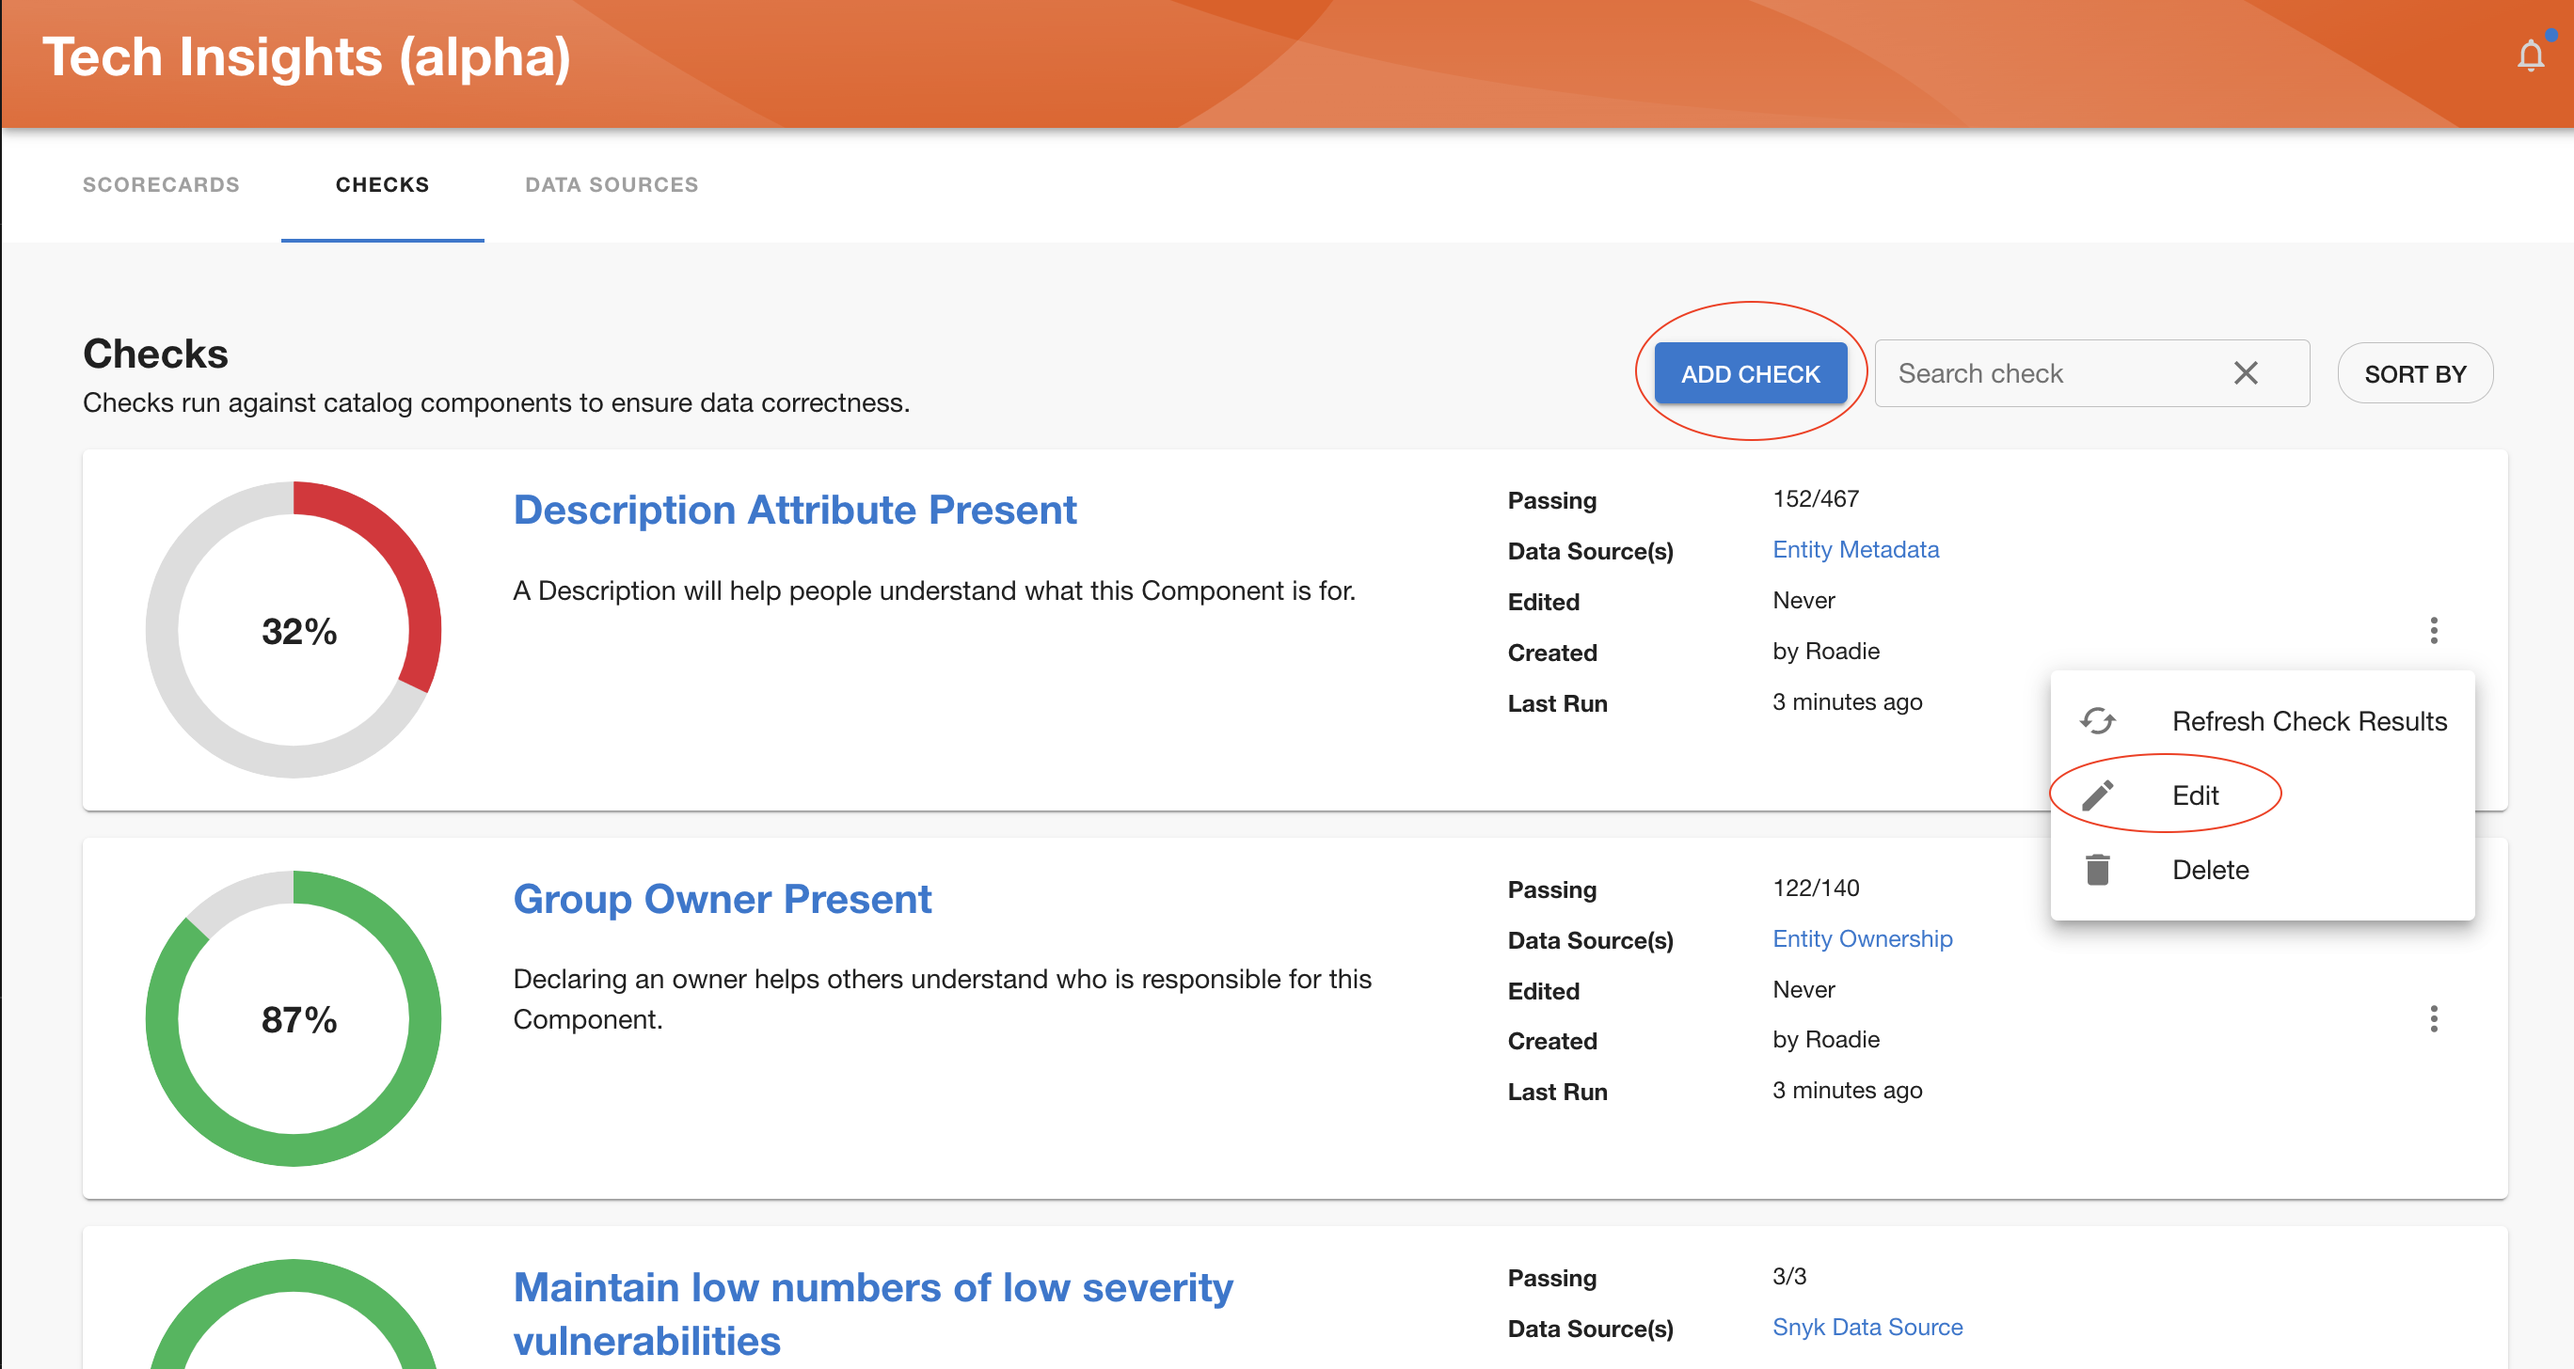
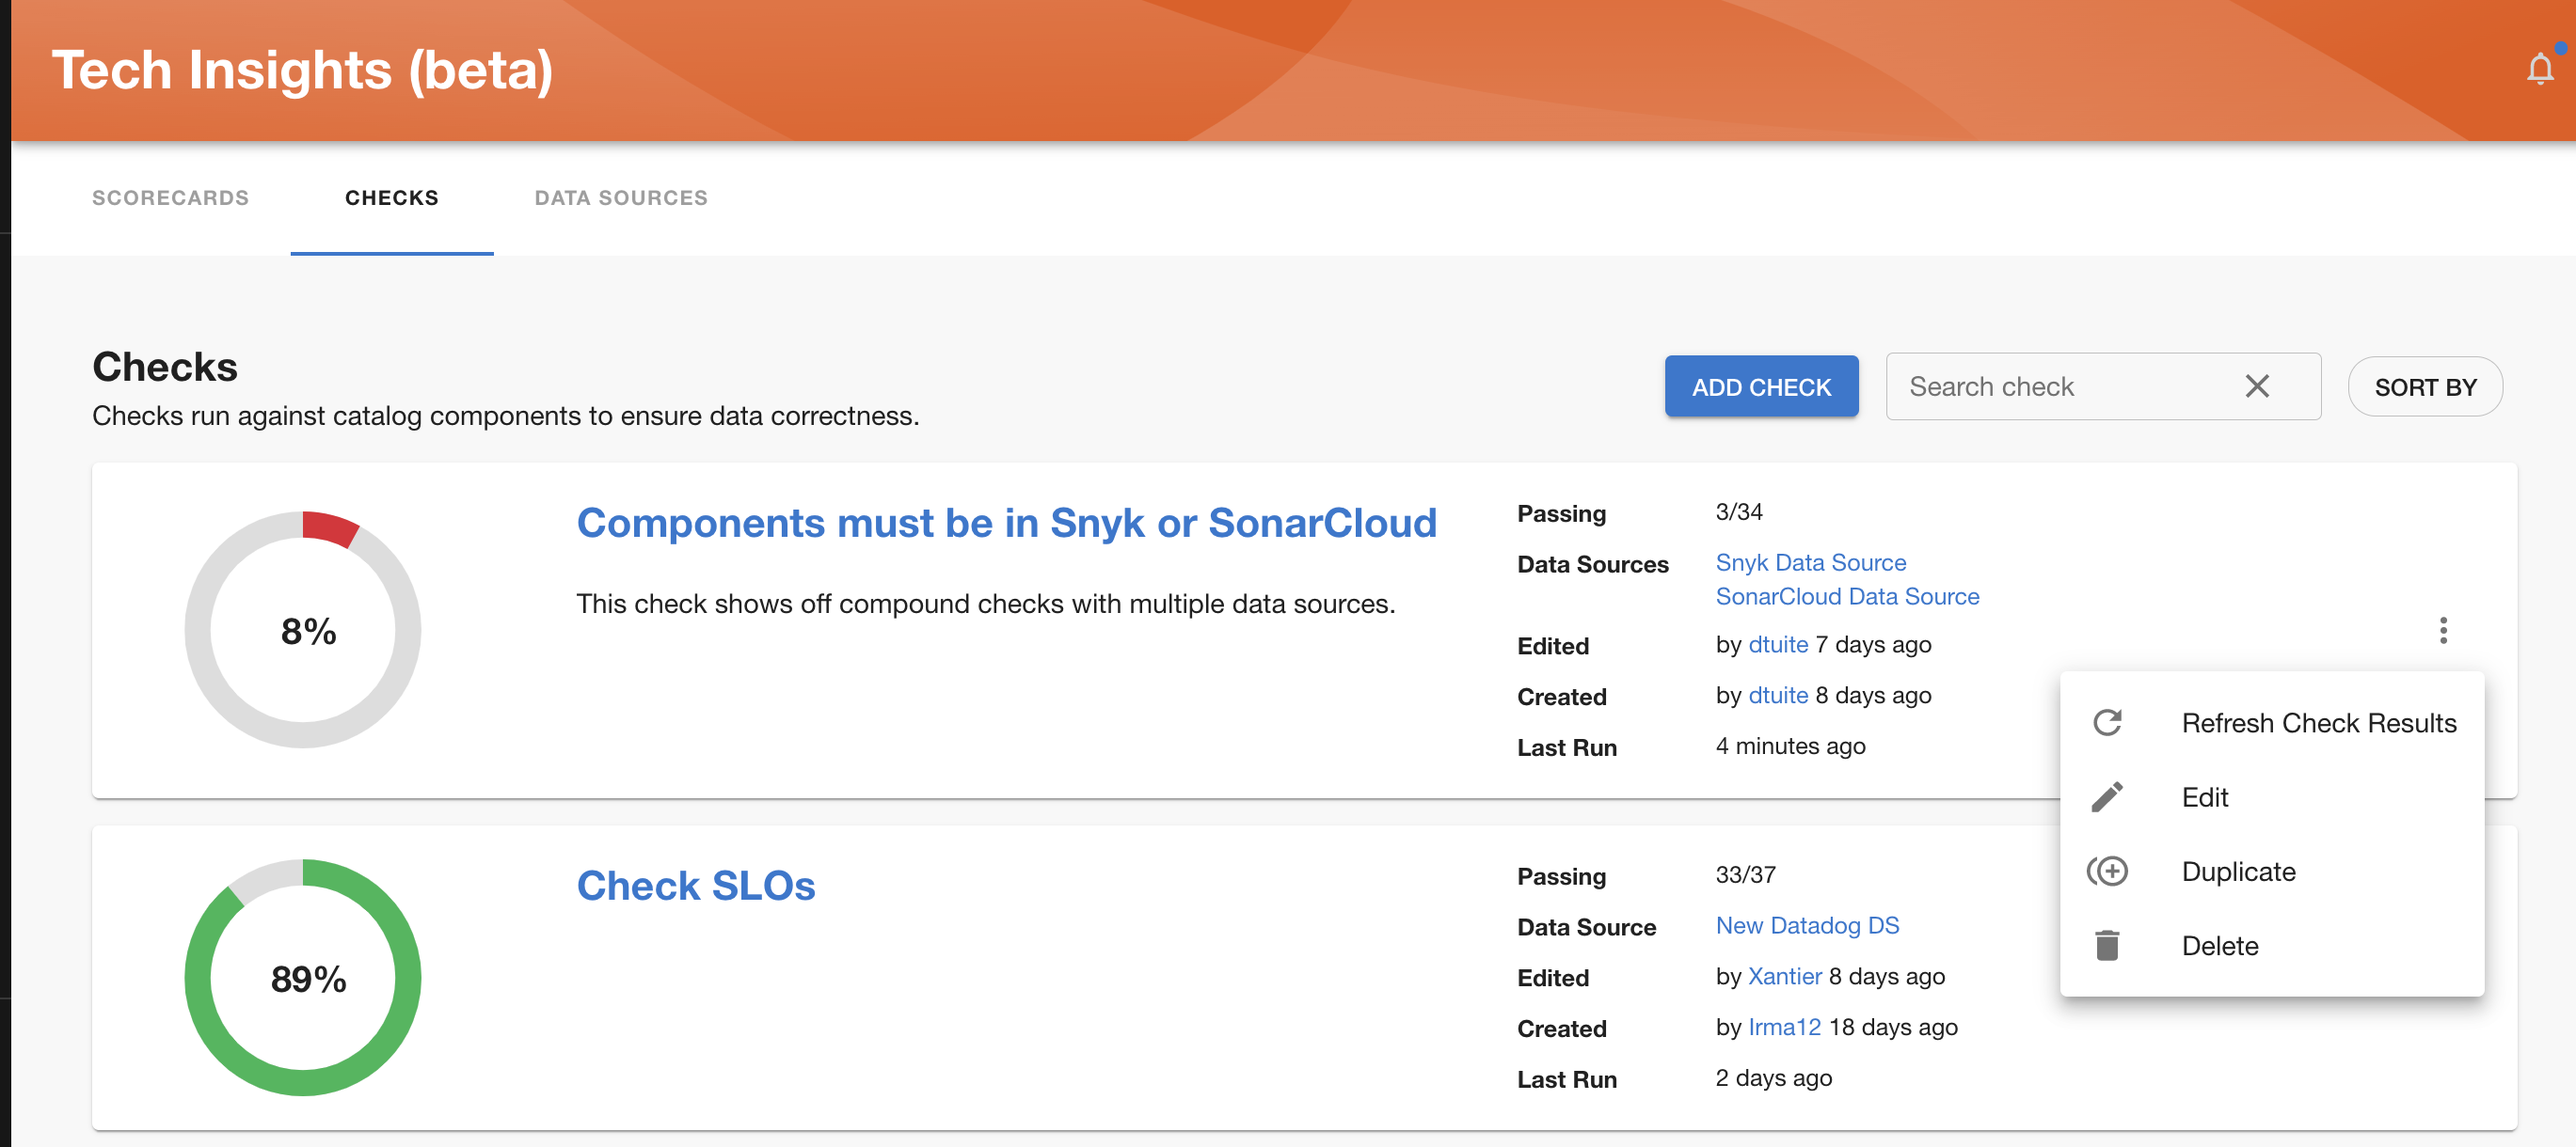
Update checks

diff --git a/content/docs/tech-insights/checks/index.md b/content/docs/tech-insights/checks/index.md
@@ -8,13 +8,13 @@ description: Managing Checks.
 
 A Check is a rule which a service either does or does not satisfy. Checks are defined by evaluating a Fact from a Data Source against a logical operation, such as checking if services have less than 4 Low Severity Issues from Snyk.
 
-To manage Checks, go to Tech Insights → Checks page. In this page you can view and edit existing Checks, as well as adding new Checks.
+To manage Checks, go to Tech Insights → Checks page. In this page you can view and edit or duplicate existing Checks, as well as adding a new one.
 
 ![Overview of all checks](./checks-overview-page.png)
 
-Clicking a specific Check title will show you the results of that Check for all components.
+Clicking a specific Check title will show you details and results of the Check for all components. Please not that if you select a wider scope of components in entity filter when creating a check, than the scope for Data Source which Check is based on, you will be seeing components without any result as well. In these cases default value will be taken into consideration and result of the check will be calculated based on those.
 
-![Check overview](./overview-check.png)
+![Check result](./check-result.png)
 
 ### Adding a new check
 
@@ -33,6 +33,12 @@ Checks are constructed using[json-rules-engine](https://github.com/CacheControl/
 4 - You can try out your Check with the Dry Run button.
 
 ![Check dry run](./dry-run-check.png)
+
+If you are still uncertain if you want to publish the check, you can save it as a draft an publish it later.
+
+![Check draft](./create-check-draft.png)
+
+Publishing a check based on [Draft Data Source](../data-sources/) will publish that Data Source as well and vice versa.
 
 After you have added the check, make sure to refresh check results so it is taken into calculation from that moment on.
 
